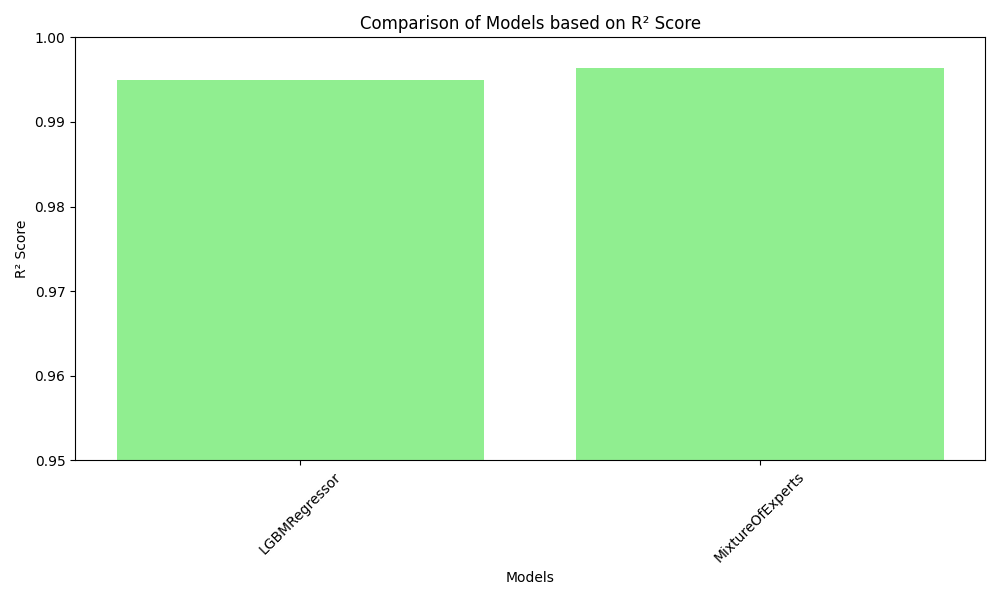
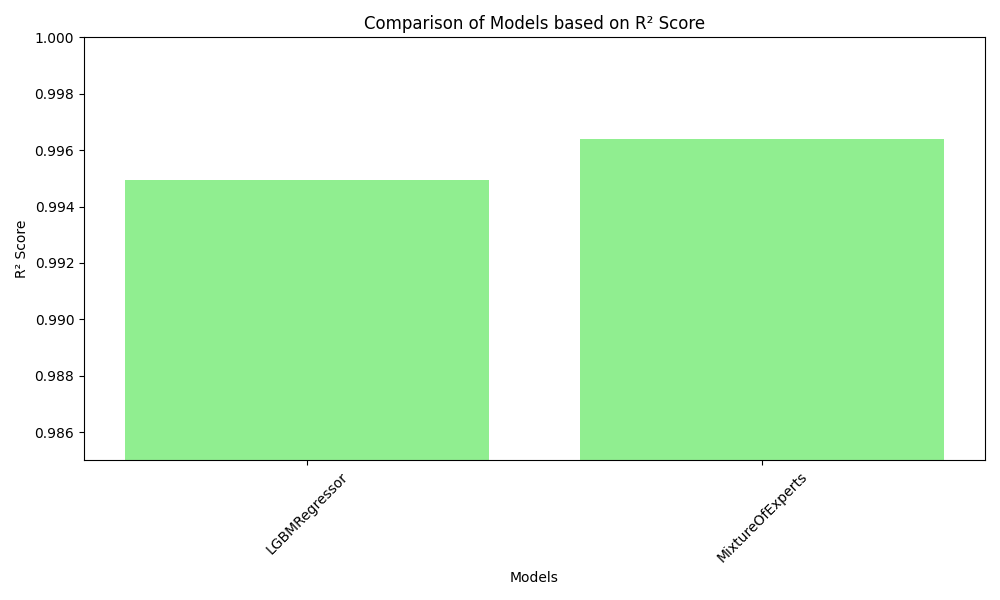
update to utils.py

diff --git a/data/utils.py b/data/utils.py
@@ -102,19 +102,14 @@ class DynamicMixtureOfExperts(BaseEstimator, RegressorMixin):
         self.do_backward = do_backward
 
     def fit(self, X, y):
-        # 1) Fit each expert individually, store them
         self.fitted_experts_ = [clone(exp).fit(X, y) for exp in self.experts]
 
-        # 2) Store each expert's predictions on training set (for quick MSE calculation)
-        #    predictions_ will be shape (n_samples, n_experts)
         expert_preds = []
         for model in self.fitted_experts_:
             expert_preds.append(model.predict(X))
         self.expert_preds_ = np.column_stack(expert_preds)
 
-        # Start with either no experts or the single best expert
-        # We'll pick whichever single expert yields the best (lowest) MSE alone,
-        # then we do a forward selection from there.
+        
         best_mse = float("inf")
         best_idx = 0
         n_experts = len(self.fitted_experts_)
@@ -123,10 +118,9 @@ class DynamicMixtureOfExperts(BaseEstimator, RegressorMixin):
             if mse_i < best_mse:
                 best_mse = mse_i
                 best_idx = i
-        self.selected_ = {best_idx}  # keep track of which experts are chosen
+        self.selected_ = {best_idx}  
 
         current_mse = best_mse
-        # Forward-backward passes
         for it in range(self.max_iter):
             improved = False
 
@@ -137,7 +131,6 @@ class DynamicMixtureOfExperts(BaseEstimator, RegressorMixin):
             best_add_idx = None
             for i in range(n_experts):
                 if i not in self.selected_:
-                    # Attempt adding expert i
                     trial_subset = list(self.selected_) + [i]
                     y_ens = self._ensemble_predictions(self.expert_preds_, trial_subset)
                     mse_trial = mean_squared_error(y, y_ens)
@@ -145,7 +138,6 @@ class DynamicMixtureOfExperts(BaseEstimator, RegressorMixin):
                         best_add_mse = mse_trial
                         best_add_idx = i
 
-            # If adding an expert improves MSE, do it
             if best_add_idx is not None and best_add_mse < current_mse:
                 self.selected_.add(best_add_idx)
                 current_mse = best_add_mse
@@ -164,32 +156,26 @@ class DynamicMixtureOfExperts(BaseEstimator, RegressorMixin):
                     if mse_trial < best_remove_mse:
                         best_remove_mse = mse_trial
                         best_remove_idx = i
-                # If removing an expert further reduces MSE, remove it
                 if best_remove_idx is not None and best_remove_mse < current_mse:
                     self.selected_.remove(best_remove_idx)
                     current_mse = best_remove_mse
                     improved = True
 
-            # If no improvement in this iteration, break
             if not improved:
                 break
 
-        # After fitting, we know which experts are chosen
         self.selected_ = sorted(self.selected_)
         self.current_mse_ = current_mse
         return self
 
     def predict(self, X):
-        # Average predictions from the chosen experts
         if not hasattr(self, "selected_"):
             raise RuntimeError("Model not fitted yet!")
         preds = [self.fitted_experts_[i].predict(X) for i in self.selected_]
-        # Simple average
         return np.mean(preds, axis=0)
 
     def _ensemble_predictions(self, expert_preds, subset):
-        """Helper: returns the average prediction of experts in `subset`."""
-        subset_preds = expert_preds[:, subset]  # shape (n_samples, len(subset))
+        subset_preds = expert_preds[:, subset]  
         return np.mean(subset_preds, axis=1)
 
 

diff --git a/main.py b/main.py
@@ -124,7 +124,7 @@ def main(args):
     plt.figure(figsize=(10, 6))
     plt.bar(model_names, r2_scores, color='lightgreen')
     plt.title('Comparison of Models based on R² Score')
-    plt.ylim((0.98, 1.0))
+    plt.ylim((0.985, 1.0))
     plt.xlabel('Models')
     plt.ylabel('R² Score')
     plt.xticks(rotation=45)
